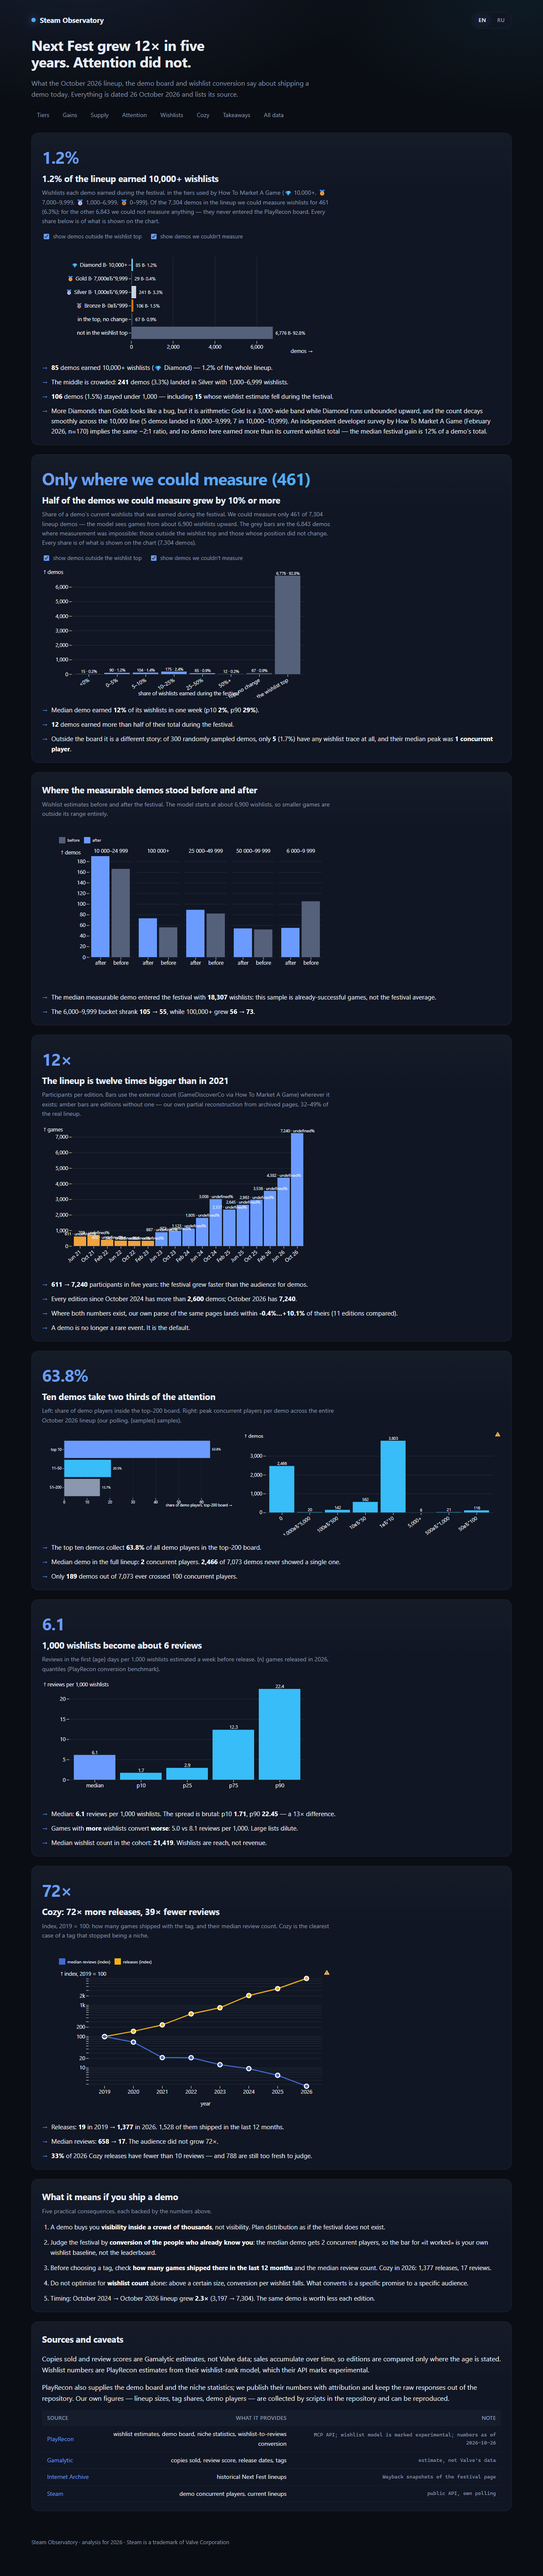
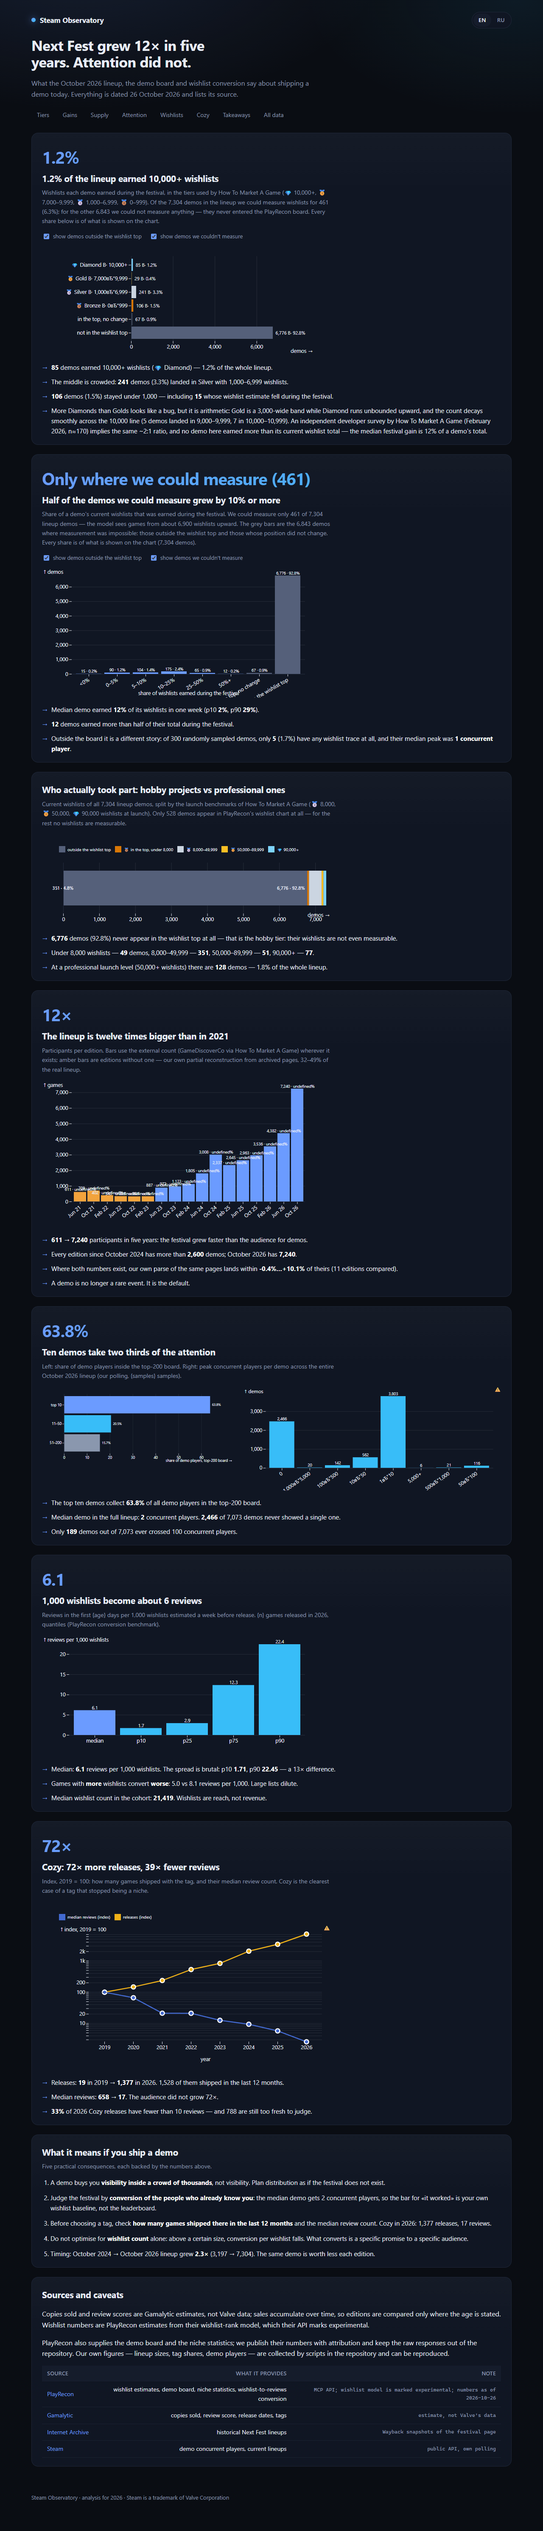
График «кто участвовал»: текущие вишлисты по бакетам запуска вместо до/после
- build_story_data: бакеты no_rank / до 8k / 8-50k / 50-90k / 90k+ по текущим вишлистам
- story: 100%-стековая полоса вместо убогого до/после, легенда и подписи с процентами
- Plot.pie в сборке Plot 0.6 бросает исключение, поэтому столбик; ошибка графика больше не ломает страницу

diff --git a/site/story-i18n.js b/site/story-i18n.js
@@ -31,13 +31,17 @@ export const S = {
     gains_b1: "Median demo earned <b>{median}%</b> of its wishlists in one week (p10 <b>{p10}%</b>, p90 <b>{p90}%</b>).",
     gains_b2: "<b>{over_half}</b> demos earned more than half of their total during the festival.",
     gains_b3: "Outside the board it is a different story: of {sampled} randomly sampled demos, only <b>{with_rank}</b> ({trace}%) have any wishlist trace at all, and their median peak was <b>{median} concurrent player</b>.",
-    wl_title: "Where the measurable demos stood before and after",
+    wl_title: "Who actually took part: hobby projects vs professional ones",
     wl_hint:
-      "Wishlist estimates before and after the festival. The model starts at about 6,900 wishlists, so smaller games are outside its range entirely.",
-    wl_before: "before",
-    wl_after: "after",
-    wl_b1: "The median measurable demo entered the festival with <b>{median_before}</b> wishlists: this sample is already-successful games, not the festival average.",
-    wl_b2: "The 6,000–9,999 bucket shrank <b>{b1} → {b2}</b>, while 100,000+ grew <b>{a1} → {a2}</b>.",
+      "Current wishlists of all {total} lineup demos, split by the launch benchmarks of How To Market A Game (🥈 8,000, 🥇 50,000, 💎 90,000 wishlists at launch). Only {in_chart} demos appear in PlayRecon's wishlist chart at all — for the rest no wishlists are measurable.",
+    wl_no_rank: "outside the wishlist top",
+    wl_in_under8k: "🥉 in the top, under 8,000",
+    wl_in_8k_50k: "🥈 8,000–49,999",
+    wl_in_50k_90k: "🥇 50,000–89,999",
+    wl_in_90k_plus: "💎 90,000+",
+    wl_b1: "<b>{n}</b> demos ({share}%) never appear in the wishlist top at all — that is the hobby tier: their wishlists are not even measurable.",
+    wl_b2: "Under 8,000 wishlists — <b>{u8}</b> demos, 8,000–49,999 — <b>{mid}</b>, 50,000–89,999 — <b>{gold}</b>, 90,000+ — <b>{pro}</b>.",
+    wl_b3: "At a professional launch level (50,000+ wishlists) there are <b>{pro}</b> demos — {pro_share}% of the whole lineup.",
     wl_axis: "demos",
     tiers_kicker: "{share}%",
     tiers_b1: "<b>{diamond}</b> demos earned 10,000+ wishlists (💎 Diamond) — {diamond_share}% of the whole lineup.",
@@ -147,13 +151,17 @@ export const S = {
     gains_b1: "Медианное демо набрало за неделю <b>{median}%</b> своих вишлистов (p10 <b>{p10}%</b>, p90 <b>{p90}%</b>).",
     gains_b2: "<b>{over_half}</b> демо набрали за фестиваль больше половины своего итога.",
     gains_b3: "Вне борда картина другая: из {sampled} случайно отобранных демо вишлист-след есть только у <b>{with_rank}</b> ({trace}%), а медианный пик у них — <b>{median} одновременный игрок</b>.",
-    wl_title: "С какими вишлистами измеримые демо входили и выходили",
+    wl_title: "Кто вообще участвовал: любители против профессионалов",
     wl_hint:
-      "Оценки вишлистов до и после фестиваля. Модель начинается примерно с 6 900 вишлистов, поэтому более мелкие игры в неё не попадают вовсе.",
-    wl_before: "до",
-    wl_after: "после",
-    wl_b1: "Медианное измеримое демо входило в фестиваль с <b>{median_before}</b> вишлистами: это выборка уже успешных игр, а не среднее по фестивалю.",
-    wl_b2: "Бакет 6 000–9 999 сжался <b>{b1} → {b2}</b>, а 100 000+ вырос <b>{a1} → {a2}</b>.",
+      "Текущие вишлисты всех {total} демо состава по бенчмарку запуска How To Market A Game (🥈 8 000, 🥇 50 000, 💎 90 000 вишлистов к запуску). В таблице вишлистов PlayRecon есть только {in_chart} демо — у остальных вишлисты вообще не измеряются.",
+    wl_no_rank: "вне топа вишлистов",
+    wl_in_under8k: "🥉 в топе, до 8 000",
+    wl_in_8k_50k: "🥈 8 000–49 999",
+    wl_in_50k_90k: "🥇 50 000–89 999",
+    wl_in_90k_plus: "💎 90 000+",
+    wl_b1: "<b>{n}</b> демо ({share}%) вообще не попадают в топ вишлистов — это и есть любительский уровень: их вишлисты даже не измеряются.",
+    wl_b2: "До 8 000 вишлистов — <b>{u8}</b> демо, 8 000–49 999 — <b>{mid}</b>, 50 000–89 999 — <b>{gold}</b>, 90 000+ — <b>{pro}</b>.",
+    wl_b3: "На профессиональном уровне запуска (50 000+ вишлистов) — <b>{pro}</b> демо, это {pro_share}% всего состава.",
     wl_axis: "демо",
     tiers_kicker: "{share}%",
     tiers_b1: "<b>{diamond}</b> демо набрали 10 000+ вишлистов (💎 Diamond) — это {diamond_share}% от всего состава.",

diff --git a/site/story.js b/site/story.js
@@ -479,45 +479,88 @@ function renderGains() {
 }
 
 // --- 1c. РЎ РєР°РєРёРјРё РІРёС€Р»РёСЃС‚Р°РјРё РІС…РѕРґРёР»Рё Рё РІС‹С…РѕРґРёР»Рё -------------------------
+// цвета долей: серый — вне топа, дальше бронза/серебро/золото/бриллиант
+const WL_COLORS = {
+  no_rank: "#55607a",
+  in_under8k: "#d97706",
+  in_8k_50k: "#cbd5e1",
+  in_50k_90k: "#fbbf24",
+  in_90k_plus: "#7dd3fc",
+};
+
 function renderWl() {
   const b = story.tiers || {};
-  const hist = b.wl_hist || [];
-  if (!hist.length) return;
-  const long = [];
-  for (const r of hist) {
-    long.push({ bucket: r.label, when: t("wl_before"), value: r.before });
-    long.push({ bucket: r.label, when: t("wl_after"), value: r.after });
+  const data = b.wl_now;
+  if (!data || !data.buckets) return;
+  const total = data.total || data.buckets.reduce((sum, r) => sum + r.games, 0);
+  const rows = data.buckets.map((r) => ({
+    key: r.key,
+    label: t(`wl_${r.key}`),
+    games: r.games,
+    share: (100 * r.games) / total,
+  }));
+  el("#hint-wl").innerHTML = t("wl_hint", {
+    total: fmt(total),
+    in_chart: fmt(data.in_chart),
+  });
+  try {
+    el("#chart-wl").replaceChildren(
+      plot({
+        height: 140,
+        marginTop: 10,
+        marginBottom: 10,
+        marginLeft: 10,
+        marginRight: 10,
+        y: { axis: null },
+        x: { label: t("wl_axis"), grid: true },
+        color: {
+          domain: rows.map((d) => d.label),
+          range: rows.map((d) => WL_COLORS[d.key]),
+          legend: true,
+        },
+        marks: [
+          Plot.barX(rows, {
+            x: "games",
+            y: () => "",
+            fill: "label",
+            insetTop: 8,
+            insetBottom: 8,
+          }),
+          Plot.text(
+            rows.filter((d) => d.share >= 4),
+            {
+              x: "games",
+              y: () => "",
+              text: (d) => `${fmt(d.games)} · ${d.share.toFixed(1)}%`,
+              dx: -6,
+              textAnchor: "end",
+              fill: "#0a0d13",
+              fontSize: 11,
+              fontWeight: 600,
+            }
+          ),
+          Plot.ruleX([0], { stroke: T.grid }),
+        ],
+      })
+    );
+  } catch (err) {
+    // график не должен ломать остальную страницу
+    console.error("[story] график вишлистов не нарисован:", err);
+    el("#chart-wl").textContent = rows
+      .map((d) => `${d.label}: ${fmt(d.games)} (${d.share.toFixed(1)}%)`)
+      .join(" · ");
   }
-  el("#chart-wl").replaceChildren(
-    plot({
-      height: 300,
-      marginTop: 16,
-      marginLeft: 70,
-      marginBottom: 46,
-      fx: { label: null },
-      x: { label: null },
-      y: { grid: true, label: t("wl_axis") },
-      color: {
-        domain: [t("wl_before"), t("wl_after")],
-        range: ["#55607a", T.accent],
-        legend: true,
-      },
-      marks: [
-        Plot.barY(long, { fx: "bucket", x: "when", y: "value", fill: "when", tip: true }),
-        Plot.ruleY([0], { stroke: T.grid }),
-      ],
-    })
-  );
-  const first = hist[0] || {};
-  const last = hist[hist.length - 1] || {};
+  const pick = (key) => rows.find((r) => r.key === key) || { games: 0, share: 0 };
+  const pro = pick("in_50k_90k").games + pick("in_90k_plus").games;
   el("#take-wl").innerHTML = [
-    t("wl_b1", { median_before: fmt(b.coverage?.median_before) }),
+    t("wl_b1", { n: fmt(pick("no_rank").games), share: pick("no_rank").share.toFixed(1) }),
     t("wl_b2", {
-      b1: fmt(first.before),
-      b2: fmt(first.after),
-      a1: fmt(last.before),
-      a2: fmt(last.after),
+      u8: fmt(pick("in_under8k").games),
+      mid: fmt(pick("in_8k_50k").games),
+      gold: fmt(pick("in_50k_90k").games),
+      pro: fmt(pick("in_90k_plus").games),
     }),
+    t("wl_b3", { pro: fmt(pro), pro_share: ((100 * pro) / total).toFixed(1) }),
   ]
     .map((x) => `<li>${x}</li>`)
     .join("");

diff --git a/site/story.html b/site/story.html
@@ -56,7 +56,7 @@
   </section>
   <section id="wl">
     <h2 data-i18n="wl_title"></h2>
-    <p class="hint" data-i18n="wl_hint"></p>
+    <p class="hint" id="hint-wl"></p>
     <div id="chart-wl" class="chart"><div class="skel skel-chart-sm"></div></div>
     <ul class="takeaways" id="take-wl"></ul>
   </section>

diff --git a/scripts/build_story_data.py b/scripts/build_story_data.py
@@ -9,6 +9,7 @@
 from __future__ import annotations
 
 import glob
+import importlib.util
 import json
 from pathlib import Path
 
@@ -230,6 +231,49 @@ if tiers_block is not None:
     in_chart = (gains_data or {}).get("rows_with_wishlists") or measured
     tiers_block["coverage"]["no_jump"] = max(0, in_chart - measured)
     tiers_block["coverage"]["no_rank"] = max(0, (lineup or 0) - in_chart)
+
+# Текущие вишлисты участников по бакетам запуска (бенчмарк How To Market A Game:
+# 🥉 5 000, 🥈 8 000, 🥇 50 000, 💎 90 000 вишлистов к запуску).
+# Первый бакет — те, кого вообще нет в топе вишлистов: их уровень неизвестен,
+# но именно они и есть любительская часть фестиваля.
+wl_now = None
+try:
+    spec = importlib.util.spec_from_file_location(
+        "prwg", ROOT / "scripts" / "playrecon_wishlist_gain.py"
+    )
+    mod = importlib.util.module_from_spec(spec)
+    spec.loader.exec_module(mod)
+    board_rows = [r for r in mod.load_rows() if r.get("wl_est")]
+
+    def _bucket(est: int) -> str:
+        if est < 8_000:
+            return "in_under8k"
+        if est < 50_000:
+            return "in_8k_50k"
+        if est < 90_000:
+            return "in_50k_90k"
+        return "in_90k_plus"
+
+    counts: dict[str, int] = {}
+    for r in board_rows:
+        key = _bucket(r["wl_est"])
+        counts[key] = counts.get(key, 0) + 1
+    lineup_n = fests_final.get("oct2026") or 0
+    wl_now = {
+        "buckets": [
+            {"key": "no_rank", "games": max(0, lineup_n - len(board_rows))},
+            {"key": "in_under8k", "games": counts.get("in_under8k", 0)},
+            {"key": "in_8k_50k", "games": counts.get("in_8k_50k", 0)},
+            {"key": "in_50k_90k", "games": counts.get("in_50k_90k", 0)},
+            {"key": "in_90k_plus", "games": counts.get("in_90k_plus", 0)},
+        ],
+        "total": lineup_n,
+        "in_chart": len(board_rows),
+    }
+    if tiers_block is not None:
+        tiers_block["wl_now"] = wl_now
+except Exception as exc:  # noqa: BLE001
+    print("ВНИМАНИЕ: не удалось посчитать текущие вишлисты:", exc)
 
 # результат случайной выборки вне борда (scripts/aggregate_outside_sample.py)
 outside_report = CACHE / "outside_sample_report.json"

diff --git a/scripts/validate_story.py b/scripts/validate_story.py
@@ -117,8 +117,14 @@ with sync_playwright() as pw:
     gains_bars = page.eval_on_selector_all("#chart-gains svg rect", "els => els.length")
     check("в графике долей шесть бакетов плюс две серые полосы", gains_bars >= 8,
           f"полос={gains_bars}")
-    wl_bars = page.eval_on_selector_all("#chart-wl svg rect", "els => els.length")
-    check("в графике до/после две полосы на бакет", wl_bars >= 10, f"полос={wl_bars}")
+    wl_slices = page.eval_on_selector_all("#chart-wl svg rect", "els => els.length")
+    check("в графике вишлистов пять долей", wl_slices >= 5, f"долей={wl_slices}")
+    wl_texts = page.eval_on_selector_all("#chart-wl svg text", "els => els.map(e => e.textContent)")
+    check("подписи долей содержат проценты",
+          any("%" in x for x in wl_texts), str(wl_texts[:4]))
+    wl_hint = page.text_content("#hint-wl") or ""
+    check("в подписи пай-чарта есть пороги и число участников",
+          "8,000" in wl_hint and "7,304" in wl_hint, wl_hint[:70])
 
     gains_labels = page.eval_on_selector_all(
         "#chart-gains svg text", "els => els.map(e => e.textContent)")
